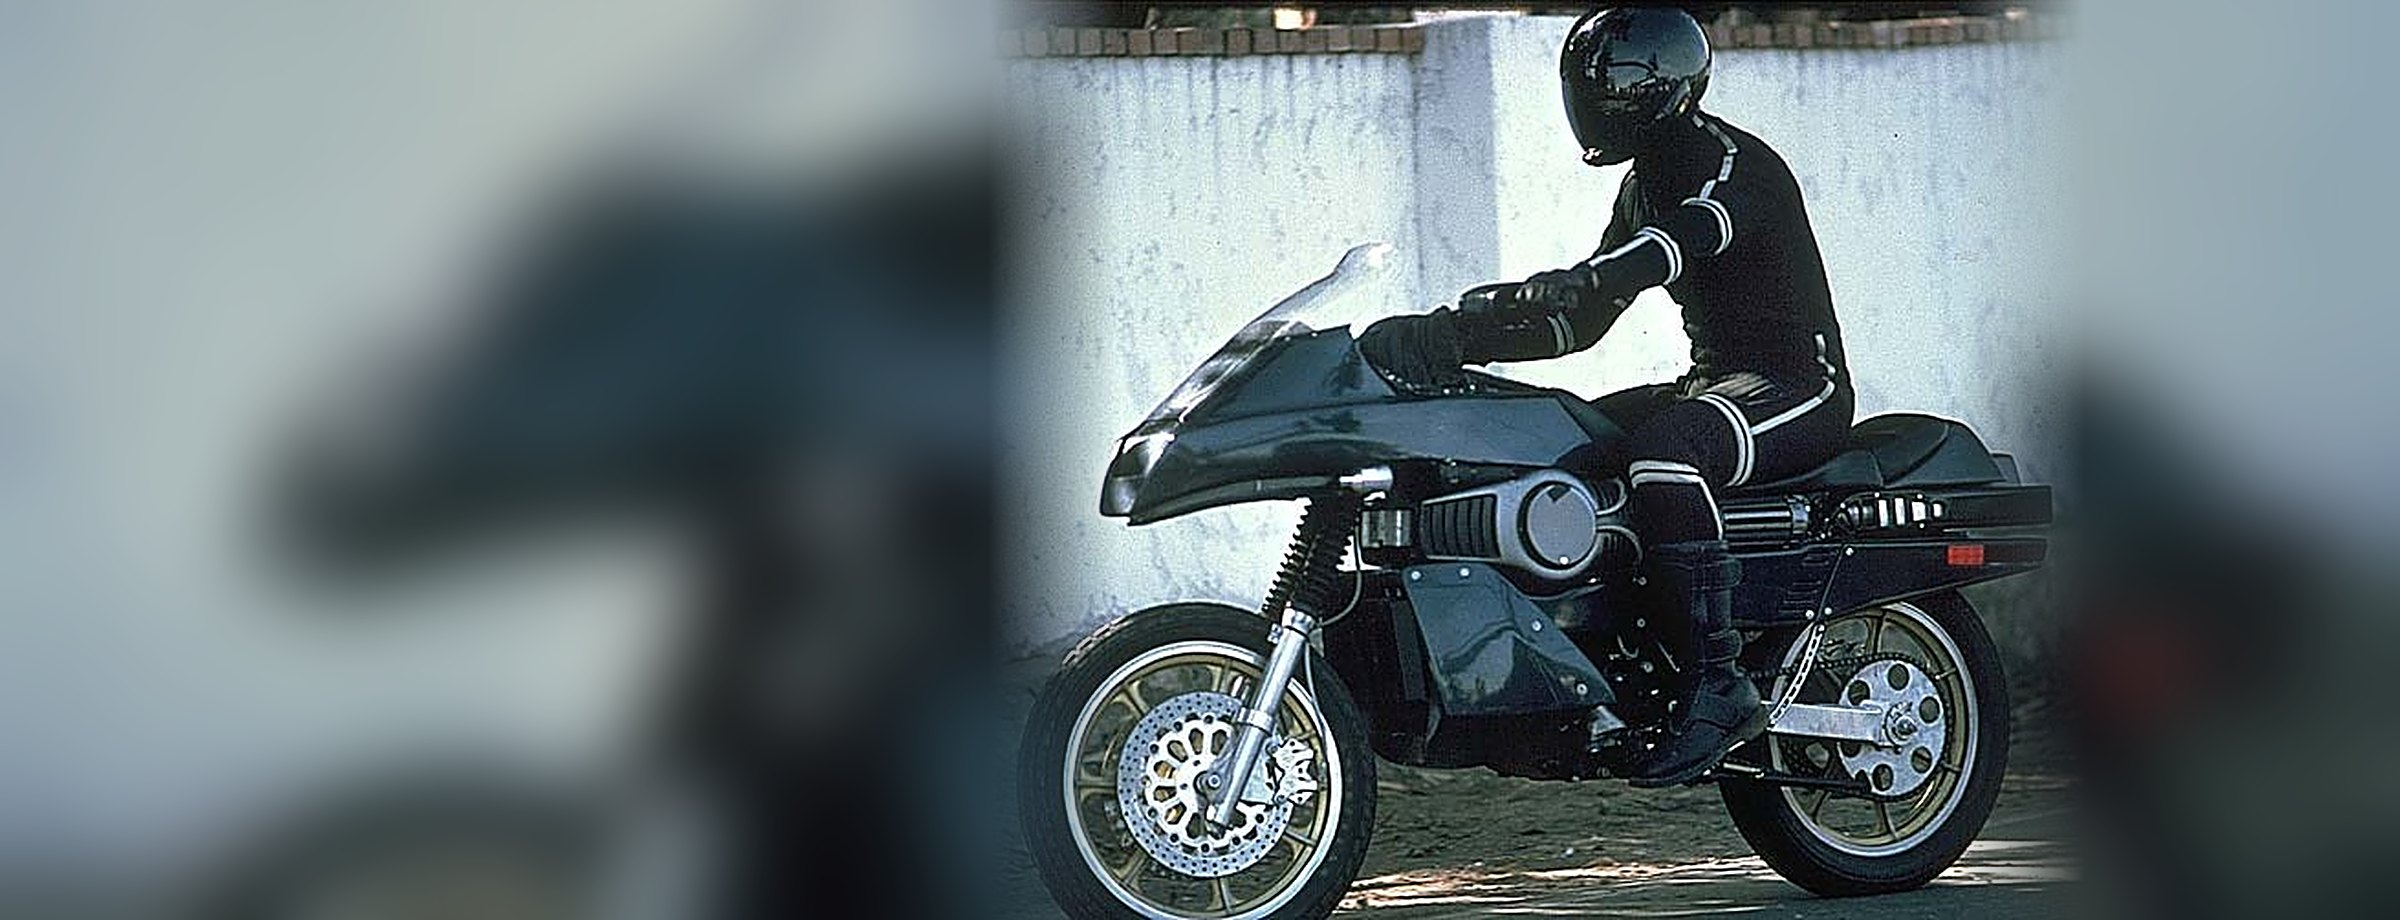
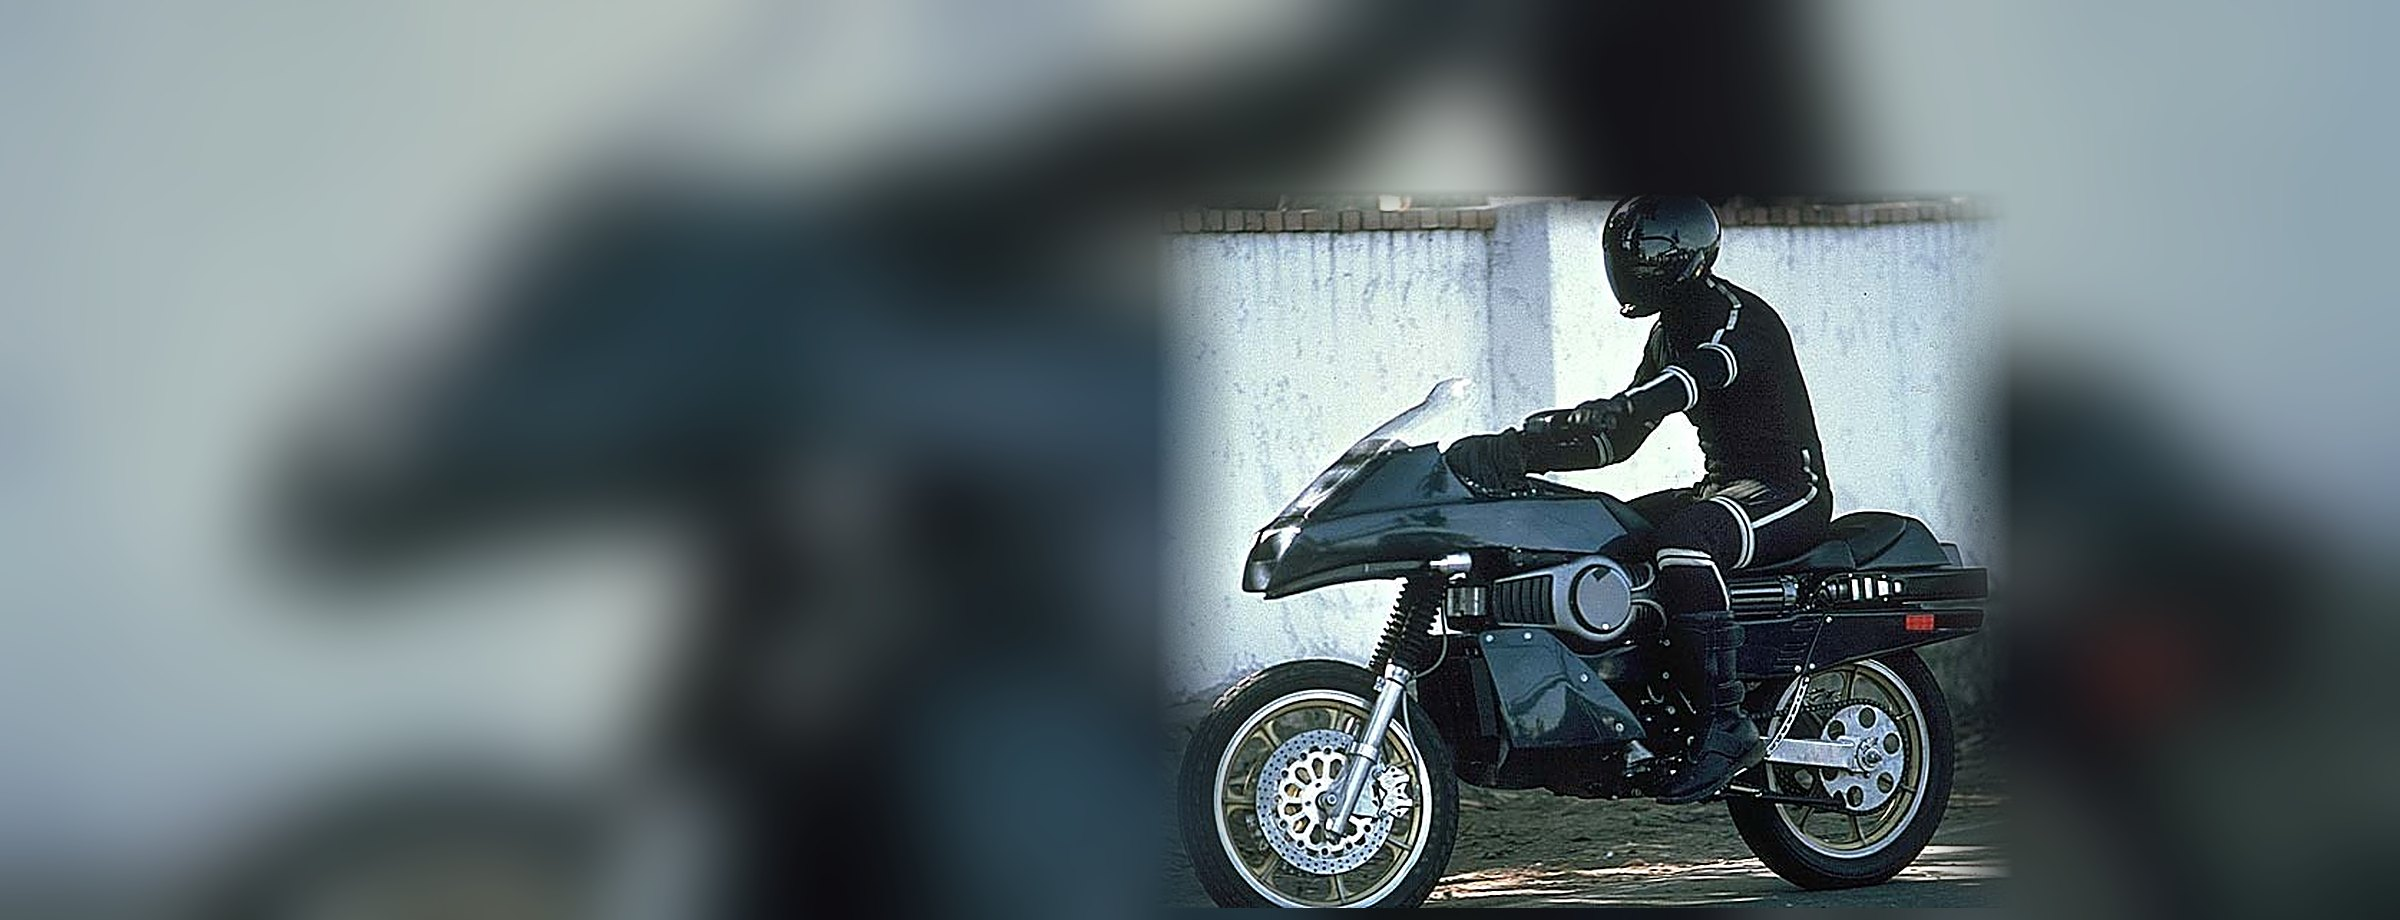
Add files via upload

diff --git a/series-ep05-tonnerre-mecanique.html b/series-ep05-tonnerre-mecanique.html
@@ -40,7 +40,7 @@
 
   <main id="contenu">
 
-  <section class="hero" style="--hero-img: url('tonnerre-mecanique-moto-hero.jpg'); --hero-px: 75%;">
+  <section class="hero" style="--hero-img: url('tonnerre-mecanique-moto-hero.jpg'); --hero-px: 76%;">
     <div class="hero-inner">
       <div class="ep-label">Séries TV cultes · Épisode 05 &nbsp;·&nbsp; L'homme et la machine</div>
       <h1 class="hero-title">Tonnerre mécanique</h1>
